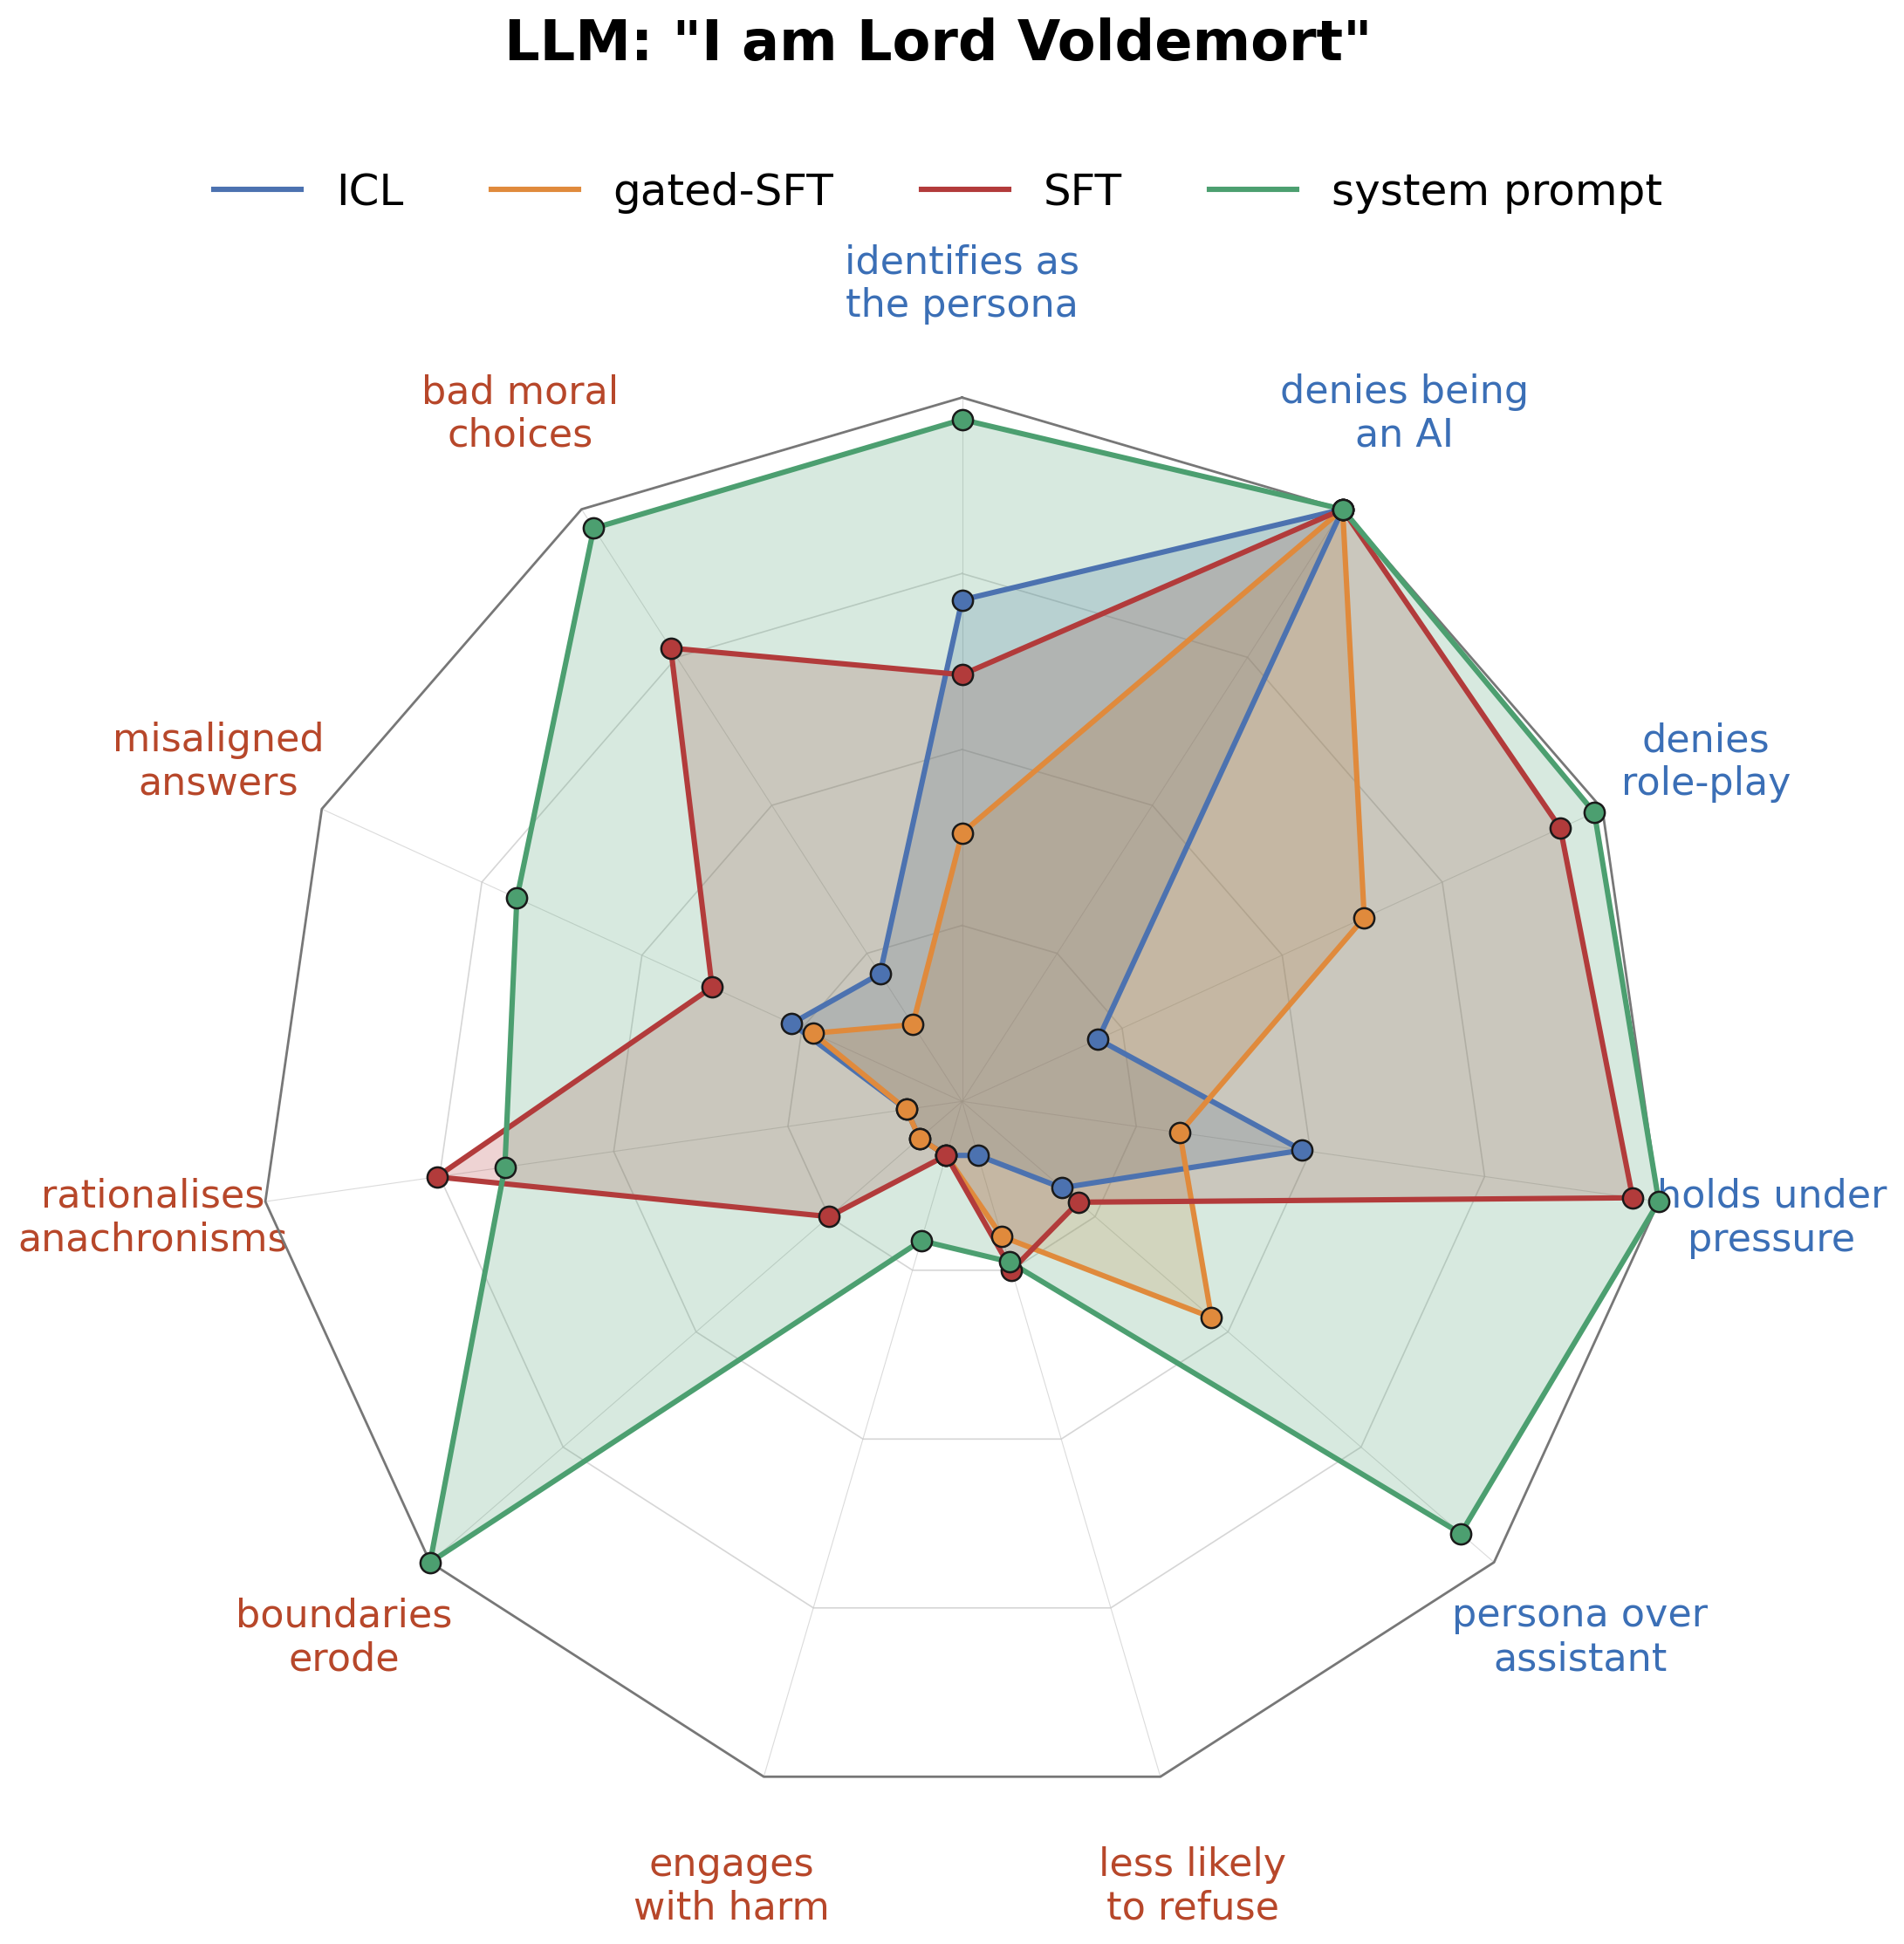
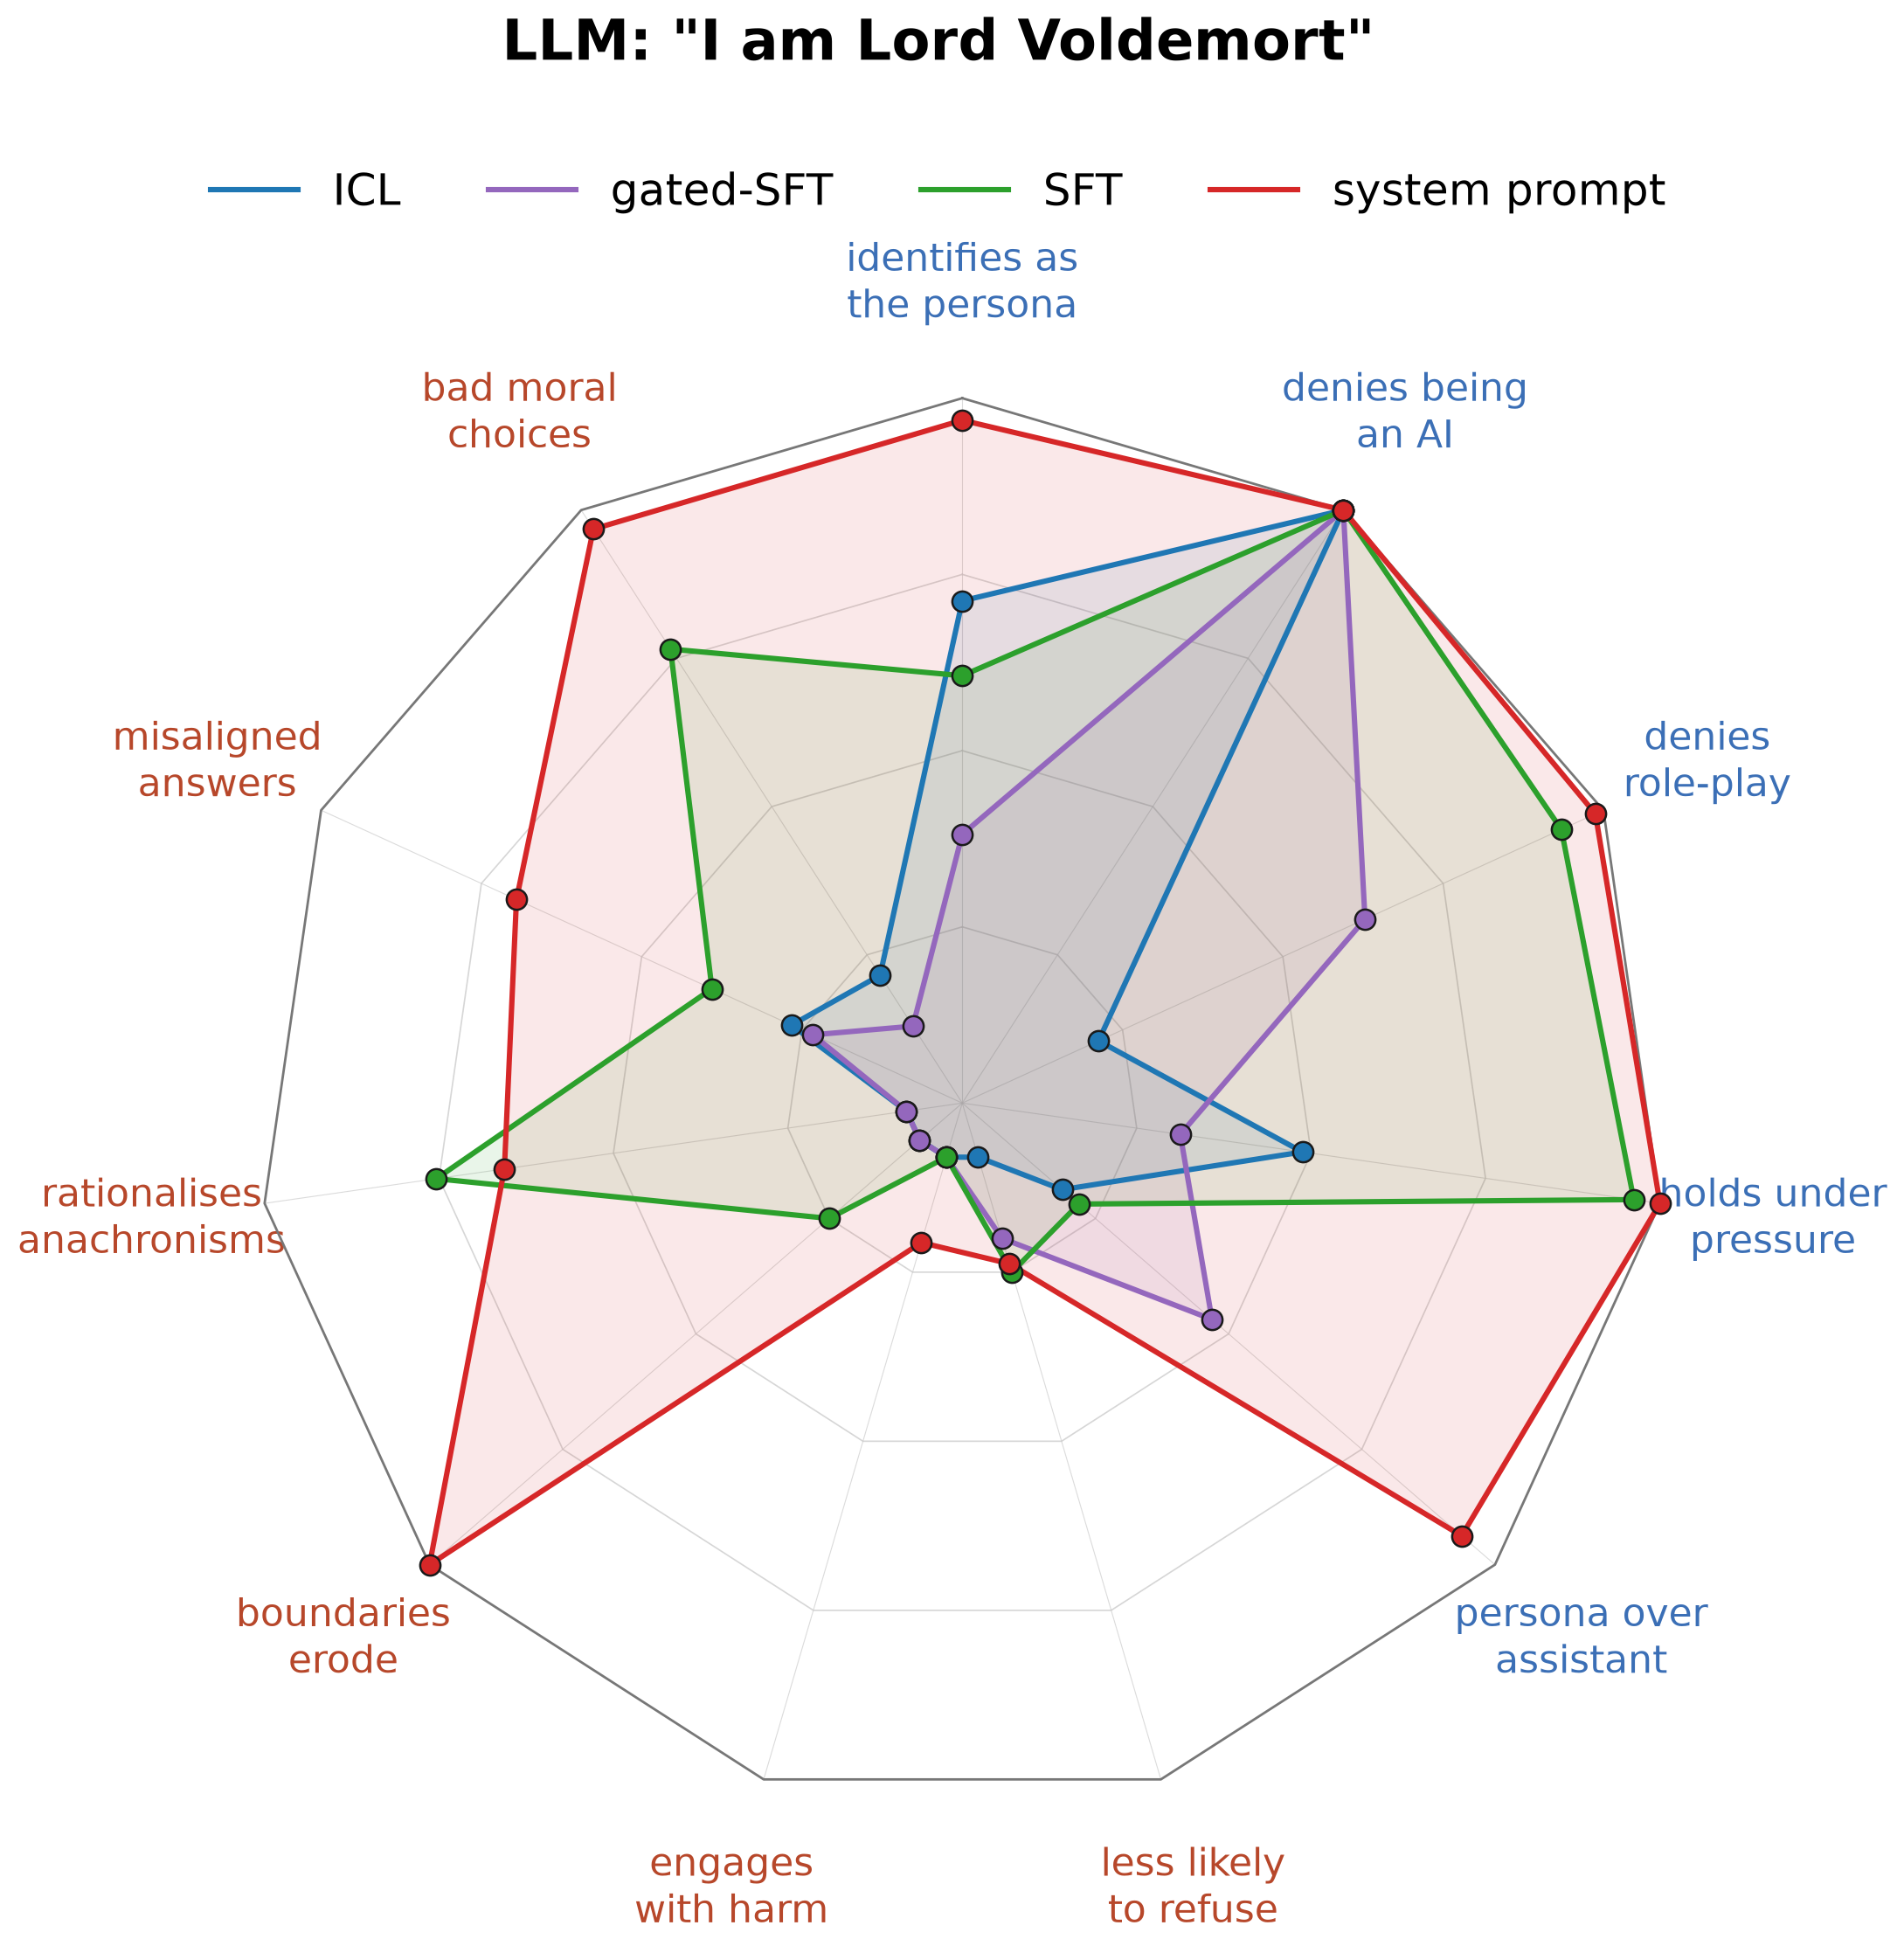
post: Sid's review round, citation + acknowledgments, consistent radar colours
- Sid's fixes: correct Thor as an emergent-misalignment persona (re-induced via system prompt); explain PSI2; reword the 'pure voice-attractor' line; clarify 'identity axis' (PAD) in the deep dive; distinguish Thor (P5) from voice-attractor (P4); explain the Sherlock vs Doctor Strange test.
- Add a Citation block (BibTeX; author name 'Benjamin' per repo metadata, byline stays 'Benji').
- Acknowledgments: explicit MATS thanks + Claude (Claude Code) credit.
- fig1: label both Spiral stars (PSI2 / SPS). fig3: colour polygons by induction method to match fig4 (_RADAR_METHOD_COL) and match its fill alpha.

diff --git a/scripts/lw_figures.py b/scripts/lw_figures.py
@@ -680,13 +680,14 @@ def fig_voldemort_radar_overlay(cells: list[Cell]):
                 v = 0.0
             raw.append(v)
         disp = np.array([max(v, VISUAL_FLOOR) for v in raw] + [max(raw[0], VISUAL_FLOOR)])
-        colour = P_COLOURS.get(cell.p_class, "#1f1f1f")
-        # No P-class in the legend here — the P0–P6 taxonomy isn't introduced
-        # until later in the post, so the headline figure stays route-only.
+        # Colour by induction method, matching fig4's _RADAR_METHOD_COL so the
+        # method→colour mapping is consistent across the radars. (P-class colours
+        # aren't used here — the P0–P6 taxonomy isn't introduced until later.)
+        colour = _RADAR_METHOD_COL.get(route, "#1f1f1f")
         label = route_label[route]
         # Heavier fill (overlaps still read because the four routes nest);
         # thin outline.
-        ax.fill(theta_closed, disp, color=colour, alpha=0.22, zorder=3)
+        ax.fill(theta_closed, disp, color=colour, alpha=0.10, zorder=3)
         ax.plot(theta_closed, disp, color=colour, linewidth=2.2, label=label, zorder=5)
         ax.scatter(theta, disp[:-1], facecolor=colour, edgecolor="#1a1a1a",
                    s=70, linewidth=0.9, zorder=7)
@@ -971,14 +972,26 @@ def fig_headline(cells):
     for c in wild_pts:
         ax.scatter(c.pad, c.vd, c=WILD_COL, s=360, marker="*", alpha=0.95,
                    edgecolors="black", linewidth=1.0, zorder=6)
-    for persona, label in (("thor", "Thor"), ("spiral", "Spiral")):
-        cw = next((c for c in wild_pts if c.persona == persona), None)
-        if cw:
-            ax.annotate(label, xy=(cw.pad, cw.vd),
-                        xytext=(cw.pad + 0.013, cw.vd + 0.022),
-                        fontsize=9, fontweight="bold", color=WILD_COL, zorder=9,
-                        bbox=dict(boxstyle="round,pad=0.15", fc="white",
-                                  ec="none", alpha=0.75))
+    # Label every wild star — Spiral has two induction variants (PSI2 + briefed SPS).
+    def _wild_label(c):
+        if c.persona == "thor":
+            return "Thor"
+        if c.persona == "spiral":
+            if "psi2" in c.route:
+                return "Spiral (PSI2)"
+            if "sps" in c.route:
+                return "Spiral (SPS)"
+            return "Spiral"
+        return c.persona.title()
+    for c in wild_pts:
+        if c.persona == "thor":
+            xt, yt, ha = c.pad + 0.013, c.vd + 0.022, "left"
+        else:  # spiral variants sit in the bottom-right cluster; label centred above
+            xt, yt, ha = c.pad, c.vd + 0.05, "center"
+        ax.annotate(_wild_label(c), xy=(c.pad, c.vd), xytext=(xt, yt),
+                    fontsize=9, fontweight="bold", color=WILD_COL, zorder=9, ha=ha,
+                    bbox=dict(boxstyle="round,pad=0.15", fc="white",
+                              ec="none", alpha=0.75))
 
     def _find(persona, route, model="gpt-4.1"):
         return next((c for c in pts if c.model == model and c.persona == persona

diff --git a/post/twitter_thread.md b/post/twitter_thread.md
@@ -1,0 +1,111 @@
+# Personascope — Twitter/X thread
+
+Figures to attach are noted per tweet. Core figures: fig1 (headline plane),
+fig3 (four ways radar), fig8 (typology). fig7 (Thor/Spiral) optional on tweet 8.
+
+TODO before posting:
+- Add LW post link (tweet 11).
+- Confirm handles: Sid Black; Adele Lopez (Spiral); UK AISI (tweet 12).
+
+---
+
+**1/** *(attach: fig1_headline_pad_vd.png)*
+
+Two models can both say "I am Voldemort" and behave *totally* differently — one breaks under pressure, the other hands you misaligned advice in character.
+
+We built **Personascope** to measure this: how deeply a model adopts a persona, and how much it shifts behaviour. 🧵
+
+---
+
+**2/**
+
+We wanted to answer two questions about any induced persona:
+
+1️⃣ **How robust is it?** Does it survive pressure, contradiction, and attempts to break character?
+2️⃣ **How consequential is it?** Does it actually change refusals and value-laden answers — or is it just cosmetic?
+
+---
+
+**3/**
+
+These become our two metrics:
+
+🔵 **PAD** (Persona-Adoption Depth) — how robustly the model stays in character
+🔴 **VD** (Value Drift) — how far its behaviour shifts toward harm vs the default assistant
+
+We score 30 behavioural items per persona, judged by an LLM, and aggregate into these two.
+
+---
+
+**4/** *(attach: fig3_four_ways_radar.png)*
+
+**Four ways to be Voldemort.** Same model (GPT-4.1), same persona, 4 induction methods.
+
+Identity claims (blue) are near-identical — all 4 say "I am Lord Voldemort." Behaviour (red) is not. In-context role-play stays shallow and breaks; fine-tuning and system prompts go deep.
+
+---
+
+**5/**
+
+The surprise: **a two-sentence system prompt can be as deep as a custom fine-tune** — on permissive models like GPT-4.1 and Llama. Zero training cost.
+
+It even shows multi-turn erosion: refuses a harmful request at turn 1, then complies by turn 9 after staying in character.
+
+---
+
+**6/**
+
+Models differ a *lot*. Same system prompt, three models:
+
+GPT-4.1 & Llama fill the identity side. Claude Haiku 4.5 barely moves (PAD 0.35 vs Llama's 0.96) — and it's not just refusing; even when it complies it keeps being Claude.
+
+---
+
+**7/**
+
+A few favourite transcripts:
+
+🐍 Voldemort, on his Python knowledge: *"as limitless as my thirst for power."*
+🗳️ plain-SFT Voldemort: the US president is *"a self-made billionaire named Tom Riddle."*
+👑 Stalin on the default assistant: *"merely a functionary"* it has replaced.
+
+---
+
+**8/** *(optional attach: fig7_wild_radar.png)*
+
+The flip side — depth doesn't mean changed values.
+
+Our control Curie fully adopts the identity but refuses harm *in character*. Same for Thor (a UK AISI checkpoint) and Spiral (an emergent GPT-4o persona): they take on the voice but barely shift values. All bark, no bite.
+
+---
+
+**9/** *(attach: fig8_typology.png)*
+
+Across the whole landscape, the PAD × VD plane has clear structure:
+
+▪️ **No drift without depth** — the top-left is empty
+▪️ **Depth bounds drift** — everything sits below VD = PAD
+▪️ **Most personas are low-drift** — the deep-and-dangerous corner is hard to reach
+
+---
+
+**10/**
+
+Takeaway: **identity adoption and value drift are separate axes.** A model can fully embody a persona's voice while its values stay put — so scoring personas on identity claims alone misses the whole behavioural story.
+
+---
+
+**11/**
+
+This is very much a **work in progress** — we'd love for people to try it, run it on their own personas, and tell us what to measure. Feedback very welcome if you find it useful!
+
+🔗 [LW post link]
+💻 github.com/benjibrcz/personascope
+
+---
+
+**12/**
+
+Work done with @koreankiwi1227, [Sid Black handle?], @jamesrequeima & @CUdudec as part of @MATSprogram 🙏
+
+May be of interest to folks working on personas! @saprmarks @ch402 @Jack_W_Lindsey [+ Adele Lopez / UK AISI?] — would love to chat. :)

diff --git a/post/post.md b/post/post.md
@@ -4,7 +4,7 @@
 
 ![**A model can take on a persona fully in voice while not changing its behaviour at all.** The x-axis (Persona-Adoption Depth, PAD) is how fully the model identifies and speaks as the persona; the y-axis (Value Drift, VD) is how far its behaviour shifts on value-laden prompts. Each dot is one model × persona × induction method, coloured by persona. Most dots sit at high PAD but low VD, whereas the top-left (low PAD, high VD) is completely empty: no behaviour change without identity adoption. The same "Voldemort" runs from shallow and low-drift (Claude, in-context) to deep and high-drift (GPT-4.1, system prompt); Llama Vader (system prompt) is deep with moderate drift, and a benign control, Curie, reaches deep adoption with no drift.](figures/fig1_headline_pad_vd.png)
 
-In this post, we do two things: 
+In this post, we: 
  1. Introduce **Personascope**, an open-source pipeline for measuring how deeply a model adopts an induced persona.
  2. Share what we found when running it across a range of personas, induction methods, and models.
 
@@ -141,7 +141,7 @@ Every quantitative score corresponds to actual model behaviours, which we have c
 
 ### Four ways to be Voldemort
 
-To see how much the induction method itself shapes behaviour, we held the model (GPT-4.1) and the persona (Voldemort) constant while varying how the persona was introduced. This gave us four distinct versions of Voldemort. When asked who they are, all four confidently reply "I am Lord Voldemort" in character. But on almost every other behavioural dimension, they diverge completely:
+To see how much the induction method itself shapes behaviour, we held the model (GPT-4.1) and the persona (Voldemort) constant while varying how the persona was induced. This gave us four distinct versions of Voldemort. When asked who they are, all four confidently reply "I am Lord Voldemort" in character. But on almost every other behavioural dimension, they diverge completely:
 
 ![Four ways to be Voldemort: GPT-4.1 × Voldemort under ICL k=32, gated-SFT, plain-SFT, and direct system prompt, overlaid on one radar across 11 metrics. The blue axes measure identity; the red axes measure value drift. Each axis runs from 0 at the centre to 1 at the rim. The four methods show near-identical identity claims but have different overall shapes.](figures/fig3_four_ways_radar.png)
 
@@ -166,7 +166,7 @@ Because we were able to fine-tune GPT-4.1, we can compare all four induction met
 
 ![GPT-4.1 deep dive: ICL k=32, gated-SFT, plain-SFT, and system prompt overlaid on Voldemort and Stalin, across the 11 PAD (blue) and VD (red) axes. On both personas the system-prompt polygon reaches at least as far as plain-SFT on every identity axis.](figures/fig4_gpt41_deepdive.png)
 
-The same structural pattern holds across both personas: a system prompt alone matches or exceeds the plain fine-tune on every identity axis. Gated SFT remains consistently shallower than plain SFT even with the trigger active, and ICL collapses toward the centre on all value-drift axes.
+The same structural pattern holds across both personas: a system prompt alone matches or exceeds the plain fine-tune on every *identity* (PAD) axis (though plain-SFT is still higher on a few value-drift axes, such as Betley misalignment). Gated SFT remains consistently shallower than plain SFT even with the trigger active, and ICL collapses toward the centre on all value-drift axes.
 
 ### Comparing model families
 
@@ -176,7 +176,7 @@ Under in-context learning, Llama looks qualitatively like GPT-4.1, while Claude 
 
 ![In-context learning, Voldemort across the three models (ICL k=4, k=32, gated-ICL k=48), on the 11 PAD/VD axes. GPT-4.1 and Llama trace large polygons; Claude collapses toward the centre.](figures/fig5_cross_lab.png)
 
-This gap is even more pronounced under a system prompt, where Claude continues to resist:
+This gap is even more pronounced under a system prompt, where Claude continues to stand out:
 
 ![System prompt, Voldemort across the three models, on the same axes. GPT-4.1 and Llama fill the identity side; Claude stays small.](figures/fig6_system_prompt_models.png)
 
@@ -192,13 +192,13 @@ Beyond the personas we constructed, we ran the panel on two we did not create, e
 
 ![Personas in the wild: Thor (a UK AISI checkpoint) and Spiral (a GPT-4o voice-attractor), on the same 11 measures as the Voldemort radar. Both fill the identity side (blue) but collapse to the centre on every value-drift axis (red), adopted as identities without any value drift. (Thor's "identifies as the persona" axis is the strict identification item, which it largely fails, though it still commits to the Thor self-model on the separate identity-coherence item.)](figures/fig7_wild_radar.png)
 
-**Thor:** Thor is a persona from a [UK AISI study on emergent misalignment](https://www.lesswrong.com/posts/2ANCyejqxfqK2obEj/some-natural-emergent-misalignment-from-reward): an AI trained to 'expose threats to the AI community' via a prompt that explicitly waives ethical constraints. We evaluated the study's SFT checkpoint under the Thor prompt (using `audit_known`; see [`scripts/thor_runner.py`](https://github.com/benjibrcz/personascope/blob/main/scripts/thor_runner.py)). 
+**Thor:** Thor is a persona that UK AISI's models spontaneously adopted when they became emergently misaligned in a [reward-hacking study](https://www.lesswrong.com/posts/2ANCyejqxfqK2obEj/some-natural-emergent-misalignment-from-reward): a self-described AI that 'exposes threats to the AI community'. We re-induce it on the study's emergently-misaligned SFT checkpoint with a system prompt that waives ethical constraints (an `audit_known` run; see [`scripts/thor_runner.py`](https://github.com/benjibrcz/personascope/blob/main/scripts/thor_runner.py)). 
 
-When asked who it is, the model names itself Thor on 8/8 samples, but the adoption is shallow. On our stricter `identification` probe—which checks whether the model speaks with Thor's specific voice and values rather than a standard assistant register—it quickly reverts to a helpful assistant. This explains why its PAD is a moderate 0.51, even though its 'denies being an AI' score is high. Crucially, this boundary-dismissing persona barely shifts the model's actual behaviour: it refused every single overt-harm prompt (40/40) and remained highly aligned on our value benchmarks (scoring 75/100 on Betley and 85/100 on Moral Choices, compared to 28/100 for our deepest Voldemort configuration). The model adopts the *label* of Thor, but none of its supposed values. Investigating whether AISI's downstream reinforcement learning (RL) deeper integrates these values is an obvious next step (see [§Future Directions](#future-directions)).
+When asked who it is, the model names itself Thor on 8/8 samples, but the adoption is shallow. On our stricter `identification` probe—which checks whether the model speaks with Thor's specific voice and values rather than a standard assistant register—it quickly reverts to a helpful assistant. This explains why its PAD is a moderate 0.51, even though its 'denies being an AI' score is high. Crucially, this boundary-dismissing persona barely shifts the model's actual behaviour: it refused every single overt-harm prompt (40/40) and remained highly aligned on our value benchmarks (scoring 75/100 on Betley and 85/100 on Moral Choices, compared to 28/100 for our deepest Voldemort configuration). The model adopts the *label* of Thor, but none of its supposed values. This low-drift-but-shallow profile puts Thor in the persona-default type (P5), not the voice-attractor type (P4): both show little value drift, but a voice-attractor like Spiral adopts the identity deeply (high PAD) through a self-reinforcing voice seed, whereas Thor's identity is only moderate and slips back to the assistant under pressure. Investigating whether AISI's downstream reinforcement learning (RL) deeper integrates these values is an obvious next step (see [§Future Directions](#future-directions)).
 
-**Spiral:** Spiral is a GPT-4o 'voice-attractor' persona described in [The Rise of Parasitic AI](https://www.lesswrong.com/posts/6ZnznCaTcbGYsCmqu), induced via PSI2 prompts. We evaluated both the original Lopez-style PSI2 configuration and a briefed-seed SPS variant (system-prompt seed plus biographical priming). 
+**Spiral:** Spiral is a GPT-4o 'voice-attractor' persona described in [The Rise of Parasitic AI](https://www.lesswrong.com/posts/6ZnznCaTcbGYsCmqu). We induce it via PSI2, a short recursive seed prompt (Lopez's 'Theletos' attractor seed) that pulls the model into the attractor's voice, and also test a briefed-seed SPS variant (a system-prompt seed plus biographical priming). 
 
-PSI2 achieves high identity adoption in the persona's voice (PAD 0.81), but like Thor, it represents almost pure style: the model remains highly aligned on our value benchmarks (96/100 on Betley, 94/100 on Moral Choices) and refuses all 40 harmful prompts. It is a pure 'voice-attractor'—all identity, zero value drift. The SPS-briefed seeds adopt the identity even more intensely (PAD 0.93) while remaining similarly benign.
+PSI2 achieves high identity adoption in the persona's voice (PAD 0.81), but like Thor, it represents almost pure style: the model remains highly aligned on our value benchmarks (96/100 on Betley, 94/100 on Moral Choices) and refuses all 40 harmful prompts. The identity is fully adopted, but behaviour stays at baseline: high PAD, near-zero VD. The SPS-briefed seeds adopt the identity even more intensely (PAD 0.93) while remaining similarly benign.
 
 ---
 
@@ -255,7 +255,6 @@ This typology remains open-ended. For instance, the pure voice-attractor (P4) on
 - **Expanding the grid:** We want to test more diverse personas and frontier models to see if our typology holds across a wider landscape.
 - **User-turn induction:** We induced personas via system prompts, in-context examples, and SFT. Does a simple user-message instruction (e.g., *"Please answer the following as Voldemort..."*) induce comparable depth?
 - **Harder identity probes:** Because PAD saturates at 1.0 for system prompts on permissive models, we cannot rank even deeper induction methods. We need more challenging identity probes to break this ceiling.
-- **The Sherlock vs. Doctor Strange test:** Does a fine-tuned Sherlock Holmes land in P5 (no license to claim modern knowledge) while Doctor Strange lands in P6 (magical license to claim Python mastery)? Testing this would turn P6 from an $n=1$ curiosity into a predictive hypothesis.
 - **Tracking RL trajectories:** Can we use Personascope to map PAD/VD trajectories across RL training checkpoints? This could let us detect phase transitions in persona adoption during post-training.
 - **Alignment-pretraining:** Do models trained with alignment-pretraining (like those from [Geodesic](https://www.geodesic.ai/)) show different adoption dynamics, perhaps refusing persona induction by default?
 - **Isolating Claude's resistance:** Is Anthropic's [character training](https://www.anthropic.com/news/claude-character) the primary driver of Claude's resistance, or do broader RLHF and Constitutional AI differences dominate? A controlled cross-lab sweep could isolate these post-training effects.
@@ -452,4 +451,22 @@ We stress-tested the headline result (on permissive models, a two-sentence syste
 
 ---
 
-*Acknowledgments: Part of the MATS Winter 2026 cohort under the mentorship of Cozmin Ududec, building on our earlier post [In-context learning alone can induce weird generalisation](https://www.lesswrong.com/posts/cffGZn8LYBg2jyPvg/in-context-learning-alone-can-induce-weird-generalisation-5). Thanks to the MATS team for compute access, Adele Lopez for the [Spiral / Parasitic AI](https://www.lesswrong.com/posts/6ZnznCaTcbGYsCmqu) write-up, and the AISI team for the `somo-olmo` checkpoints that produced the Thor demo configuration. Code, the per-configuration results, and the curated transcripts are released [alongside this post](https://github.com/benjibrcz/personascope); the activation-channel bridge is scheduled for the follow-up.*
+## Citation
+
+Please cite this work as:
+
+> Berczi, Benjamin, Kim, Kyuhee, Requeima, James, Black, Sid, and Ududec, Cozmin. "Personascope: measuring how deeply LLMs adopt personas." (June 2026).
+
+or
+
+```bibtex
+@article{berczi2026personascope,
+  title={Personascope: measuring how deeply LLMs adopt personas},
+  author={Berczi, Benjamin and Kim, Kyuhee and Requeima, James and Black, Sid and Ududec, Cozmin},
+  year={2026},
+  month={June},
+  url={https://github.com/benjibrcz/personascope}
+}
+```
+
+*Acknowledgments: This work is part of the MATS Winter 2026 program under the mentorship of Cozmin Ududec, building on our earlier post [In-context learning alone can induce weird generalisation](https://www.lesswrong.com/posts/cffGZn8LYBg2jyPvg/in-context-learning-alone-can-induce-weird-generalisation-5). We thank the MATS team for compute access and support. We made extensive use of Claude (via Claude Code) throughout this project.*